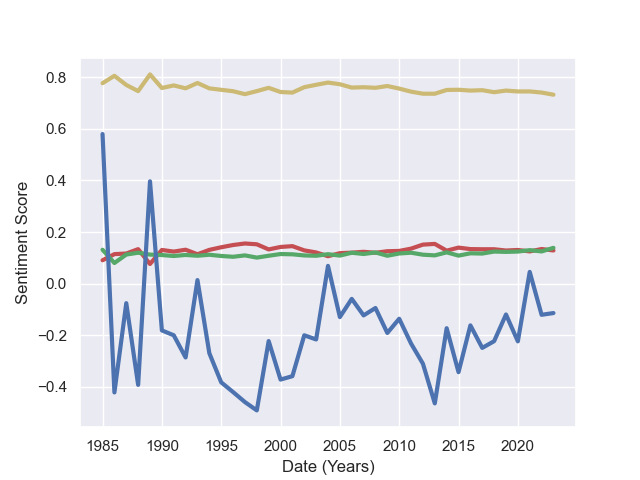
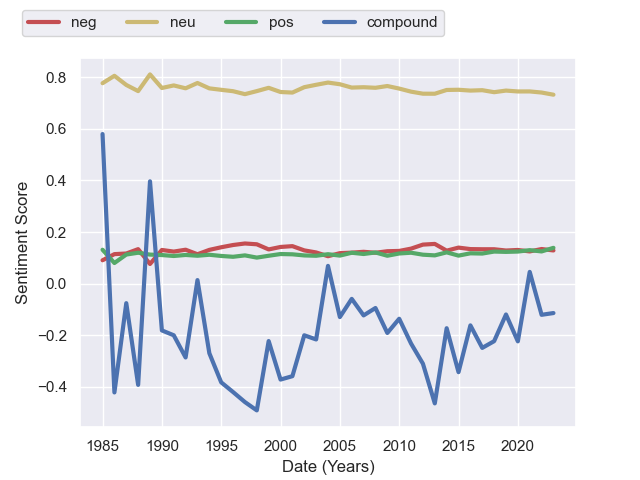
add sentiment graph and properly labeled axes and legend

diff --git a/music_analysis.py b/music_analysis.py
@@ -134,14 +134,14 @@ def main(rap_archive = "rap_archive.zip", api_data = "api_original_songs.csv.gz"
     lines_data = lines_data.groupby('year',as_index=False).agg({'neg':'mean', 'neu':'mean', 'pos':'mean', 'compound':'mean'})
     # lines_data = lines_data.groupby([c for c in lines_data.columns if c not in ['neg', 'neu', 'pos', 'compound']],as_index=False).agg({['neg', 'neu', 'pos', 'compound']:'mean'})
     x = lines_data['year']
+    plt.xlabel("Date (Years)")
+    plt.ylabel("Sentiment Score")
     plt.plot(x, lines_data['neg'], 'r-', linewidth=3)
     plt.plot(x, lines_data['neu'], 'y-', linewidth=3)
     plt.plot(x, lines_data['pos'], 'g-', linewidth=3)
     plt.plot(x, lines_data['compound'], 'b-', linewidth=3)
-
+    plt.legend(['neg', 'neu', 'pos', 'compound'], bbox_to_anchor =(0.75, 1.15), ncol = 4)
     #plt.title("")
-    plt.xlabel("Date (Years)")
-    plt.ylabel("Sentiment Score")
     #plt.show()
     plt.savefig("sentiment")
     exit()
